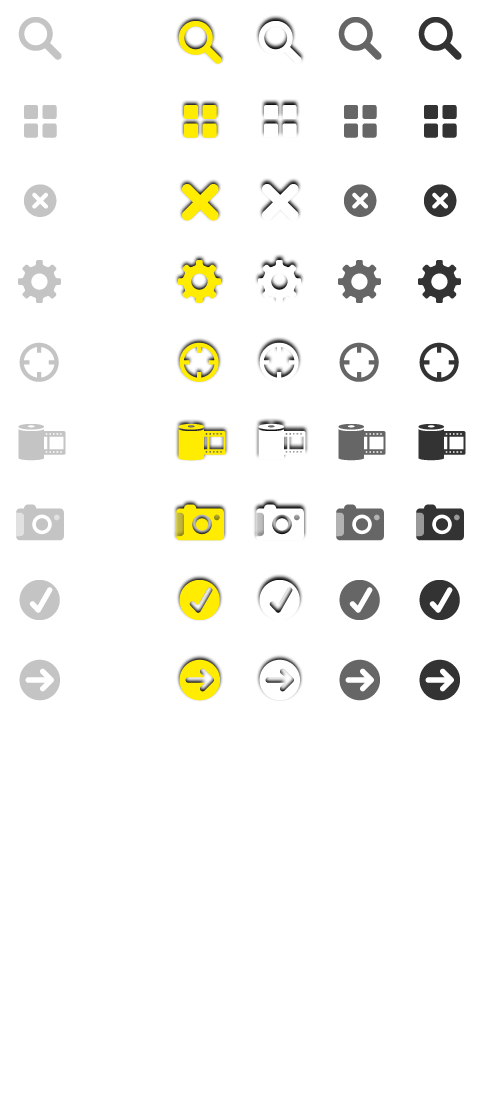
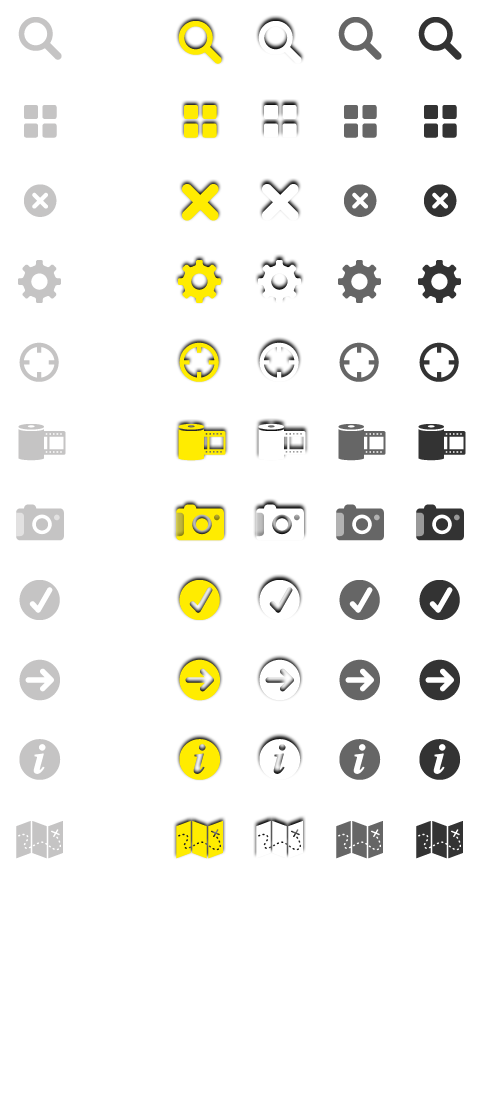
reshuffle spots & map nav for snapr 3.0

diff --git a/theme/snapr/css/gfx-icons.less b/theme/snapr/css/gfx-icons.less
@@ -49,6 +49,10 @@
             .ui-icon-camroll{ background-position: @gfxTopBar-x-a @gfxTopBar-camroll-icon-y;}
             .ui-icon-camera{ background-position: @gfxTopBar-x-a @gfxTopBar-camera-icon-y;}
             .ui-icon-join{ background-position: @gfxTopBar-x-a @gfxTopBar-join-icon-y;}
+            .ui-icon-info{ background-position: @gfxTopBar-x-a @gfxTopBar-info-icon-y;}
+            .ui-icon-map{ background-position: @gfxTopBar-x-a @gfxTopBar-map-icon-y;}
+            
+            
         }
     }
     .ui-btn-hover-a{
@@ -61,6 +65,8 @@
             .ui-icon-camroll{ background-position: @gfxTopBar-x-a-hover @gfxTopBar-camroll-icon-y;}
             .ui-icon-camera{ background-position: @gfxTopBar-x-a-hover @gfxTopBar-camera-icon-y;}
             .ui-icon-join{ background-position: @gfxTopBar-x-a-hover @gfxTopBar-join-icon-y;}
+                .ui-icon-info{ background-position: @gfxTopBar-x-a-hover @gfxTopBar-info-icon-y;}
+                .ui-icon-map{ background-position: @gfxTopBar-x-a-hover @gfxTopBar-map-icon-y;}
         }
     }    
     .ui-btn-up-b{
@@ -73,6 +79,8 @@
             .ui-icon-camroll{ background-position: @gfxTopBar-x-b @gfxTopBar-camroll-icon-y;}
             .ui-icon-camera{ background-position: @gfxTopBar-x-b @gfxTopBar-camera-icon-y;}
             .ui-icon-join{ background-position: @gfxTopBar-x-b @gfxTopBar-join-icon-y;}
+                .ui-icon-info{ background-position: @gfxTopBar-x-b @gfxTopBar-info-icon-y;}
+                .ui-icon-map{ background-position: @gfxTopBar-x-b @gfxTopBar-map-icon-y;}
         }
     }
     .ui-btn-hover-b{
@@ -85,6 +93,8 @@
             .ui-icon-camroll{ background-position: @gfxTopBar-x-b-hover @gfxTopBar-camroll-icon-y;}
             .ui-icon-camera{ background-position: @gfxTopBar-x-b-hover @gfxTopBar-camera-icon-y;}
             .ui-icon-join{ background-position: @gfxTopBar-x-b-hover @gfxTopBar-join-icon-y;}
+                .ui-icon-info{ background-position: @gfxTopBar-x-b-hover @gfxTopBar-info-icon-y;}
+                .ui-icon-map{ background-position: @gfxTopBar-x-b-hover @gfxTopBar-map-icon-y;}
         }
     }
     .ui-btn-up-c{
@@ -97,6 +107,8 @@
             .ui-icon-camroll{ background-position: @gfxTopBar-x-c @gfxTopBar-camroll-icon-y;}
             .ui-icon-camera{ background-position: @gfxTopBar-x-c @gfxTopBar-camera-icon-y;}
             .ui-icon-join{ background-position: @gfxTopBar-x-c @gfxTopBar-join-icon-y;}
+                .ui-icon-info{ background-position: @gfxTopBar-x-c @gfxTopBar-info-icon-y;}
+                .ui-icon-map{ background-position: @gfxTopBar-x-c @gfxTopBar-map-icon-y;}
         }
     }
     .ui-btn-hover-c{
@@ -109,6 +121,8 @@
             .ui-icon-camroll{ background-position: @gfxTopBar-x-c-hover @gfxTopBar-camroll-icon-y;}
             .ui-icon-camera{ background-position: @gfxTopBar-x-c-hover @gfxTopBar-camera-icon-y;}
             .ui-icon-join{ background-position: @gfxTopBar-x-c-hover @gfxTopBar-join-icon-y;}
+                .ui-icon-info{ background-position: @gfxTopBar-x-c-hover @gfxTopBar-info-icon-y;}
+                .ui-icon-map{ background-position: @gfxTopBar-x-c-hover @gfxTopBar-map-icon-y;}
         }
     }
 }

diff --git a/theme/snapr/css/main.css b/theme/snapr/css/main.css
@@ -115,6 +115,12 @@
 .ui-header .ui-btn-up-a .ui-btn-inner .ui-icon-join {
   background-position: 0px -320px;
 }
+.ui-header .ui-btn-up-a .ui-btn-inner .ui-icon-info {
+  background-position: 0px -360px;
+}
+.ui-header .ui-btn-up-a .ui-btn-inner .ui-icon-map {
+  background-position: 0px -400px;
+}
 .ui-header .ui-btn-hover-a .ui-btn-inner .ui-icon-search {
   background-position: -40px 0px;
 }
@@ -138,6 +144,12 @@
 }
 .ui-header .ui-btn-hover-a .ui-btn-inner .ui-icon-join {
   background-position: -40px -320px;
+}
+.ui-header .ui-btn-hover-a .ui-btn-inner .ui-icon-info {
+  background-position: -40px -360px;
+}
+.ui-header .ui-btn-hover-a .ui-btn-inner .ui-icon-map {
+  background-position: -40px -400px;
 }
 .ui-header .ui-btn-up-b .ui-btn-inner .ui-icon-search {
   background-position: -80px 0px;
@@ -163,6 +175,12 @@
 .ui-header .ui-btn-up-b .ui-btn-inner .ui-icon-join {
   background-position: -80px -320px;
 }
+.ui-header .ui-btn-up-b .ui-btn-inner .ui-icon-info {
+  background-position: -80px -360px;
+}
+.ui-header .ui-btn-up-b .ui-btn-inner .ui-icon-map {
+  background-position: -80px -400px;
+}
 .ui-header .ui-btn-hover-b .ui-btn-inner .ui-icon-search {
   background-position: -120px 0px;
 }
@@ -186,6 +204,12 @@
 }
 .ui-header .ui-btn-hover-b .ui-btn-inner .ui-icon-join {
   background-position: -120px -320px;
+}
+.ui-header .ui-btn-hover-b .ui-btn-inner .ui-icon-info {
+  background-position: -120px -360px;
+}
+.ui-header .ui-btn-hover-b .ui-btn-inner .ui-icon-map {
+  background-position: -120px -400px;
 }
 .ui-header .ui-btn-up-c .ui-btn-inner .ui-icon-search {
   background-position: -160px 0px;
@@ -211,6 +235,12 @@
 .ui-header .ui-btn-up-c .ui-btn-inner .ui-icon-join {
   background-position: -160px -320px;
 }
+.ui-header .ui-btn-up-c .ui-btn-inner .ui-icon-info {
+  background-position: -160px -360px;
+}
+.ui-header .ui-btn-up-c .ui-btn-inner .ui-icon-map {
+  background-position: -160px -400px;
+}
 .ui-header .ui-btn-hover-c .ui-btn-inner .ui-icon-search {
   background-position: -200px 0px;
 }
@@ -234,6 +264,12 @@
 }
 .ui-header .ui-btn-hover-c .ui-btn-inner .ui-icon-join {
   background-position: -200px -320px;
+}
+.ui-header .ui-btn-hover-c .ui-btn-inner .ui-icon-info {
+  background-position: -200px -360px;
+}
+.ui-header .ui-btn-hover-c .ui-btn-inner .ui-icon-map {
+  background-position: -200px -400px;
 }
 .tab-bar-icons .ui-icon {
   width: 32px;

diff --git a/app/templates/components/tab_bar.html b/app/templates/components/tab_bar.html
@@ -2,7 +2,7 @@
     <div data-role="navbar" data-iconpos="top">
         <ul>
             <li><a href="#/dash/" data-icon="dash" data-theme="b" data-name="dash">Dash</a></li>
-            <li><a href="#/map/" data-icon="map" data-theme="b" data-name="map">Map</a></li>
+            <li><a href="#/spots/" data-icon="spots" data-theme="b" data-name="spots">Spots</a></li>
             <li><a class="x-launch-camera-options" data-icon="share"  data-theme="b" data-name="share">Share</a></li>
             <li><a href="#/popular/" data-icon="popular" data-theme="b" data-name="discover">Discover</a></li>
             <% if(username){ %>

diff --git a/app/templates/spot.html b/app/templates/spot.html
@@ -3,7 +3,8 @@
         <h1>Spots</h1>
 
         <div class="ui-btn-right" data-ajax="false">
-            <a href="#/search/" data-snapr-dialog="true" data-role="button" data-icon="search" data-iconpos="notext"></a>
+            <a href="#/map/" data-role="button" data-icon="map" data-iconpos="notext"></a>
+            
             <a href="#/home/" data-role="button" data-icon="home" data-iconpos="notext"></a>
         </div>
     </div>

diff --git a/app/templates/spots.html b/app/templates/spots.html
@@ -3,7 +3,7 @@
         <h1>Spots</h1>
 
         <div class="ui-btn-right" data-ajax="false">
-            <a href="#/search/" data-snapr-dialog="true" data-role="button" data-icon="search" data-iconpos="notext"></a>
+            <a href="#/map/" data-role="button" data-icon="map" data-iconpos="notext"></a>
             <a href="#/home/" data-role="button" data-icon="home" data-iconpos="notext"></a>
         </div>
     </div>

diff --git a/theme/snapr/css/gfx-sprites.less b/theme/snapr/css/gfx-sprites.less
@@ -24,6 +24,9 @@
 @gfxTopBar-camera-icon-y:       -6 * @gfxTopBar-grid;
 @gfxTopBar-tick-icon-y:         -7 * @gfxTopBar-grid;
 @gfxTopBar-join-icon-y:         -8 * @gfxTopBar-grid;
+@gfxTopBar-info-icon-y:         -9 * @gfxTopBar-grid;
+@gfxTopBar-map-icon-y:         -10 * @gfxTopBar-grid;
+
 
 @gfxTopBar-x-a:                 -0 * @gfxTopBar-grid;
 @gfxTopBar-x-a-hover:           -1 * @gfxTopBar-grid;

diff --git a/app/views/spots.js b/app/views/spots.js
@@ -65,6 +65,9 @@ var spots_view =  page_view.extend({
         "click .ui-input-clear": "search_event",
         "submit form": "search_event"
     },
+    
+    get_override_tab: function(){ return 'spots'; },
+    
 
     render: function() {
         var spots_list = this.$el.find("ul.spots").empty();

diff --git a/app/views/spot.js b/app/views/spot.js
@@ -29,6 +29,9 @@ var spot_view = page_view.extend({
 
     events: {
     },
+    
+    get_override_tab: function(){ return 'spots'; },
+    
 
     fetch_spot: function () {
         var spot_view = this,
